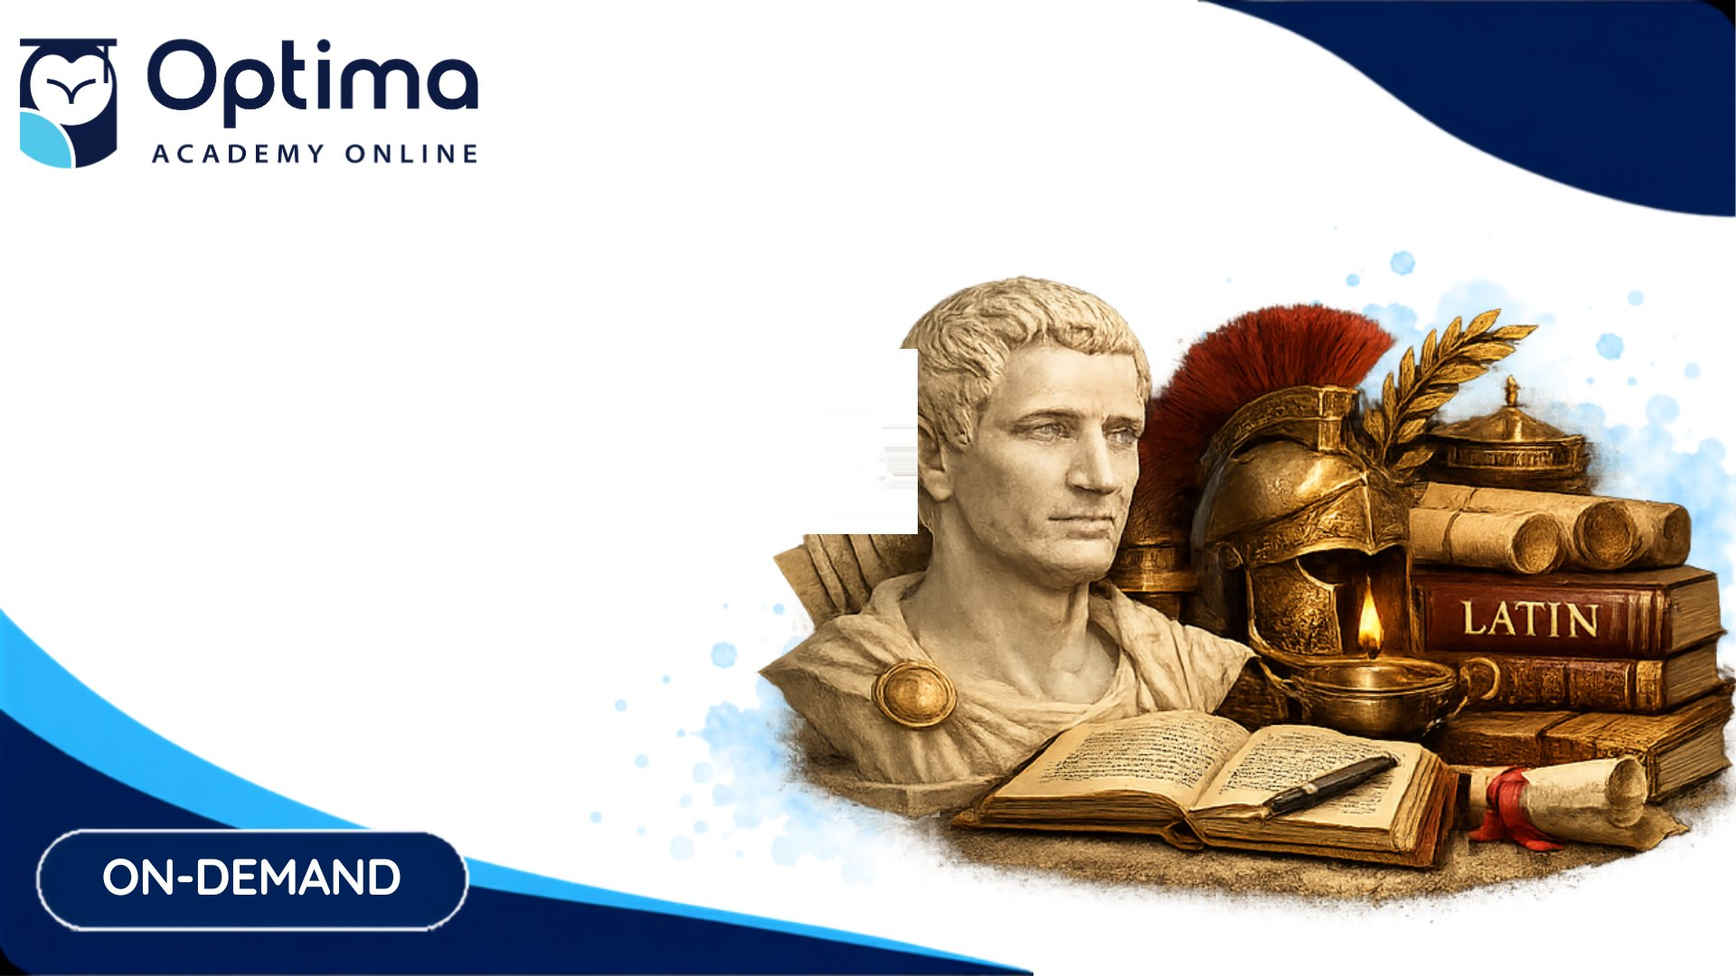
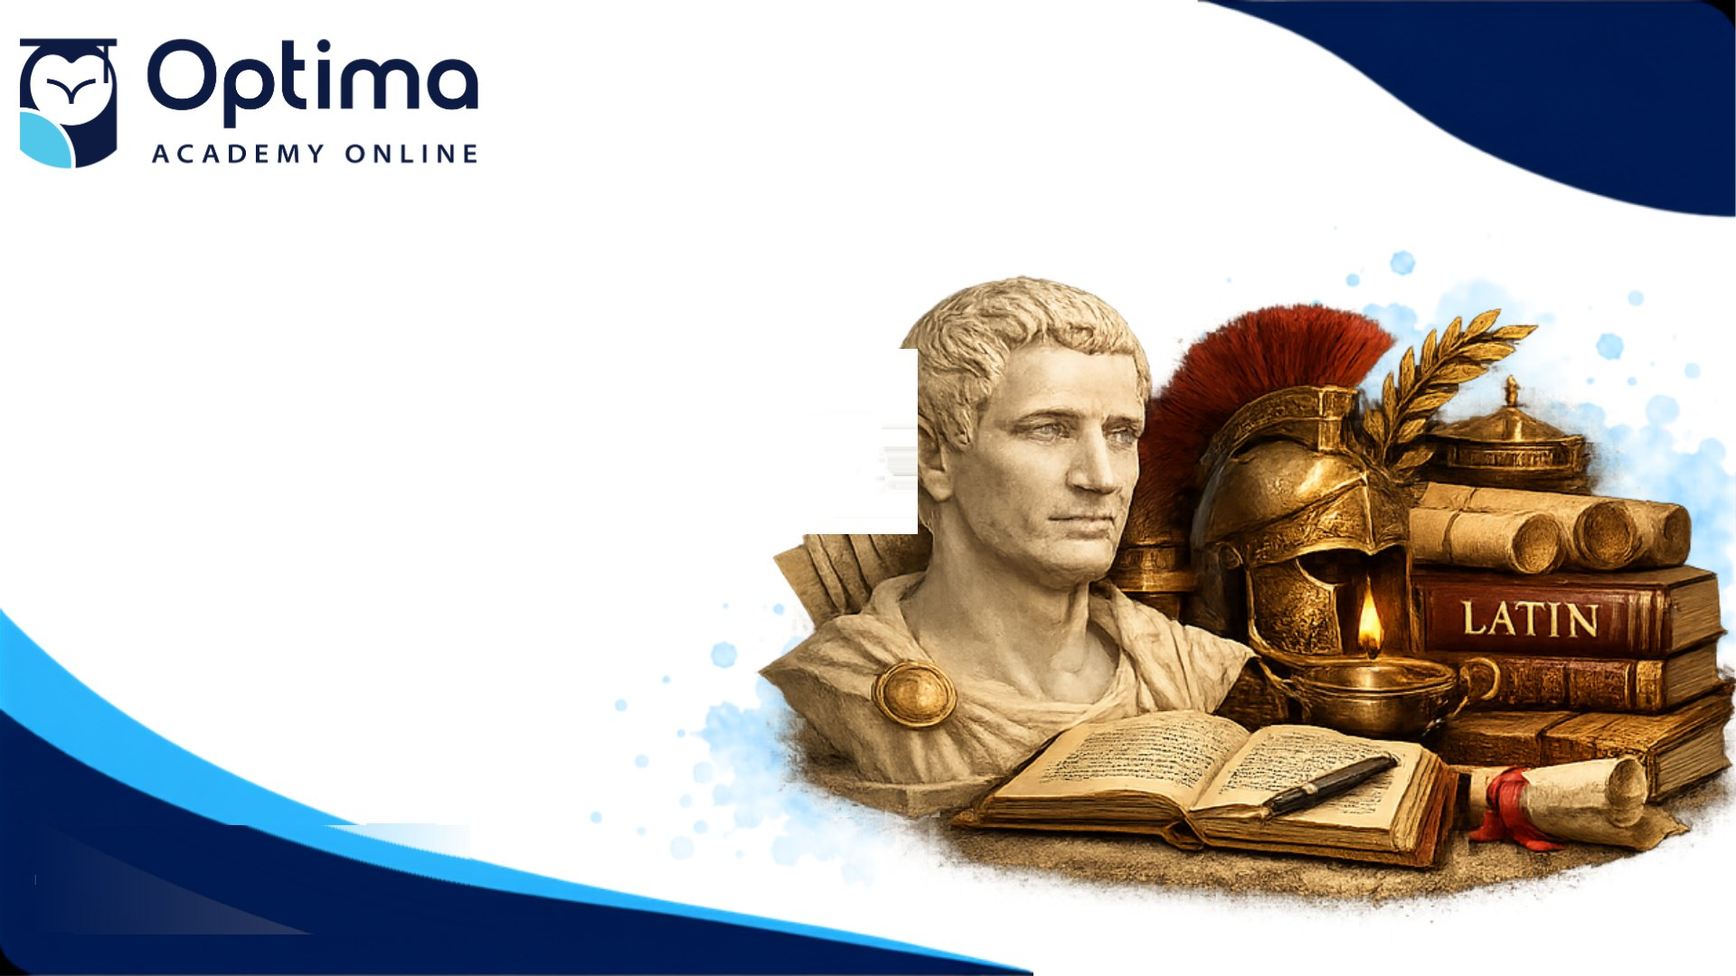
Tiles tab: style per tile, independent scrolling panes, pill-free backgrounds with a Live / On-Demand / none toggle
- Tile style is now one of the batch details: shared (swatch grid, both bands
  grouped) or per tile (a select in the per-tile table), so a teacher with one art,
  one science and two history sections makes one batch of four.
- Form pane and preview pane are sticky and scroll on their own, so the previews
  stay in view while details are edited.
- Backgrounds no longer carry the LIVE / ON-DEMAND pill. tile_backgrounds.py finds the
  pill's white ring, masks it (plus a flat navy backing block where a tile has one),
  fits the wave boundary on either side with a quadratic and fills the hole by
  shearing the neighbouring columns along it. The pill is drawn only for Live or
  On-Demand; "None" leaves the wave clean and drops the mode from the filename.
- Overlapping draws (count changed while backgrounds loaded) no longer paint stale
  results.
- Self-test: mixed styles across the batch, pill present on a Live tile and absent
  on a None tile.

Changed region(s): [[0.0312, 0.825, 0.2812, 0.9778], [0.0, 0.8861, 0.0312, 0.9167]]

diff --git a/index.html b/index.html
@@ -104,8 +104,13 @@
   .tab { border:0; border-radius:8px 8px 0 0; background:rgba(255,255,255,0.08); color:#fff; font-size:15px; padding:10px 22px; }
   .tab[aria-pressed="true"] { background:var(--bg); color:var(--navy); font-weight:600; }
   .wrap[hidden] { display:none; }   /* the grid display would otherwise beat [hidden] */
-  .tileswrap { grid-template-columns: minmax(340px, 540px) 1fr; }
-  .tileswrap .tilepane { background:#fff; border:1px solid var(--line); border-radius:8px; padding:16px; align-self:start; }
+  .tileswrap { grid-template-columns: minmax(340px, 540px) 1fr; align-items:start; }
+  /* Each pane scrolls on its own, so the previews stay in view while the form is edited. */
+  .tileswrap .col { position:sticky; top:12px; max-height:calc(100vh - 24px); overflow-y:auto; padding-right:4px; }
+  .tileswrap .tilepane { background:#fff; border:1px solid var(--line); border-radius:8px; padding:16px; position:sticky; top:12px; max-height:calc(100vh - 24px); overflow-y:auto; }
+  @media (max-width: 1000px) { .tileswrap .col, .tileswrap .tilepane { position:static; max-height:none; overflow:visible; } }
+  .styles .grp { grid-column:1 / -1; font-size:12px; color:var(--mute); font-weight:600; letter-spacing:.5px; margin-top:6px; }
+  .styles .stylebtn span { font-size:11.5px; }
   .tilegrid { display:grid; grid-template-columns:repeat(auto-fill, minmax(340px, 1fr)); gap:14px; }
   .tilecard canvas { display:block; width:100%; height:auto; border:1px solid var(--line); border-radius:8px; background:#fff; }
   .tilecard .cap { display:flex; justify-content:space-between; align-items:center; gap:8px; font-size:13px; color:var(--mute); margin-top:6px; }
@@ -237,17 +242,14 @@
     <div class="step">
       <h2><span class="n">1</span> Set up your batch</h2>
       <div class="hint">One batch makes every tile for one course. Five sections of the same course are one batch of five tiles that differ only where you say they differ.</div>
-      <label>Grade band</label>
-      <div class="seg" id="tile-band"><button type="button" data-v="Middle" aria-pressed="false">Middle (6–8)</button><button type="button" data-v="Upper" aria-pressed="true">Upper (9–12)</button></div>
-      <label>Tile style</label>
-      <div class="styles" id="tile-styles"></div>
       <label for="tile-count">How many tiles</label>
       <input type="number" id="tile-count" min="1" max="24" step="1" value="1" style="max-width:120px;">
     </div>
     <div class="step">
       <h2><span class="n">2</span> Fill in the details</h2>
-      <div class="hint">Tick <b>Same for all</b> when a detail is identical on every tile. Untick it (usually Period) to type it per tile below.</div>
+      <div class="hint">Tick <b>Same for all</b> when a detail is identical on every tile. Untick it to set it per tile below. A teacher with one art, one science and two history sections unticks <b>Tile style</b> and <b>Period</b>.</div>
       <div id="tile-fields"></div>
+      <div id="tile-styles-wrap"><label>Tile style, for every tile</label><div class="styles" id="tile-styles"></div></div>
       <div id="tile-per"></div>
     </div>
     <div class="step">
@@ -1444,18 +1446,19 @@
   var TILE_W = 1920, TILE_H = 1080;
   var TILE_INK = "#133255", TILE_NAME = "#506e91", TILE_PILL = "#052558";
   var TILE_FIELDS = [
+    { k: 'style',   label: 'Tile style',          style: true },
     { k: 'title',   label: 'Course title',        ph: 'English 1' },
     { k: 'teacher', label: 'Teacher name',        ph: 'Ms. Thalia Trussell' },
-    { k: 'mode',    label: 'Live or On-Demand',   select: ['Live', 'On-Demand'] },
+    { k: 'mode',    label: 'Live / On-Demand pill', select: ['Live', 'On-Demand', 'None'] },
     { k: 'days',    label: 'Days',                ph: 'Mon & Wed' },
     { k: 'time',    label: 'Time',                ph: '10:00–10:50 AM ET' },
     { k: 'period',  label: 'Period or section',   ph: 'Period 3' }
   ];
   var TILES_STORE = 'optima-course-kit-tiles';
   function blankTiles() {
-    return { band: 'Upper', style: 'english', count: 1,
-      shared: { title: true, teacher: true, mode: true, days: true, time: true, period: false },
-      values: { title: '', teacher: '', mode: 'Live', days: '', time: '', period: '' },
+    return { count: 1,
+      shared: { style: true, title: true, teacher: true, mode: true, days: true, time: true, period: false },
+      values: { style: 'upper/english', title: '', teacher: '', mode: 'Live', days: '', time: '', period: '' },
       per: [{}] };
   }
   var tiles = blankTiles();
@@ -1472,14 +1475,17 @@
     if (!tiles.per) tiles.per = [];
     while (tiles.per.length < tiles.count) tiles.per.push({});
     tiles.per.length = tiles.count;
-    if (!styleFor(tiles.band, tiles.style)) {
-      var first = TILE_STYLES.filter(function (s) { return s.band === tiles.band; })[0];
-      tiles.style = first ? first.key : tiles.style;
-    }
+    if (tiles.shared.style == null) tiles.shared.style = true;
+    // Older saved batches kept band + style apart; fold them into one key.
+    if (tiles.style && !tiles.values.style) tiles.values.style = String(tiles.band || 'Upper').toLowerCase() + '/' + tiles.style;
+    if (!styleFor(tiles.values.style)) tiles.values.style = 'upper/english';
   }
-  function styleFor(band, key) {
-    return TILE_STYLES.filter(function (s) { return s.band === band && s.key === key; })[0] || null;
+  // Styles are keyed "band/subject", e.g. "upper/english" or "middle/math".
+  function styleKey(s) { return s.band.toLowerCase() + '/' + s.key; }
+  function styleFor(key) {
+    return TILE_STYLES.filter(function (s) { return styleKey(s) === key; })[0] || null;
   }
+  function styleLabel(s) { return s.band + ' · ' + s.subject; }
   function tileValue(i, k) {
     if (tiles.shared[k]) return String(tiles.values[k] || '');
     return String((tiles.per[i] || {})[k] || '');
@@ -1487,14 +1493,16 @@
   function tileData(i) {
     var d = {};
     TILE_FIELDS.forEach(function (f) { d[f.k] = tileValue(i, f.k); });
-    if (d.mode !== 'On-Demand') d.mode = 'Live';
+    if (d.mode !== 'On-Demand' && d.mode !== 'None') d.mode = 'Live';
+    if (!styleFor(d.style)) d.style = tiles.values.style;
     return d;
   }
   function tileFilename(d) {
     var parts = [d.title, d.teacher, d.period].map(function (s) {
       return String(s || '').replace(/[^A-Za-z0-9]+/g, '_').replace(/^_+|_+$/g, '');
     }).filter(Boolean);
-    parts.push(d.mode === 'On-Demand' ? 'OD' : 'Live', 'Tile');
+    if (d.mode !== 'None') parts.push(d.mode === 'On-Demand' ? 'OD' : 'Live');
+    parts.push('Tile');
     return parts.join('_') + '.png';
   }
 
@@ -1570,7 +1578,8 @@
         y += f3.px + 6; ctx.fillStyle = TILE_INK; ctx.fillText(f3.lines[0], x, y);
       });
     }
-    // Mode pill, redrawn over the original one
+    // Mode pill (the backgrounds carry none); skipped when the teacher picks None
+    if (d.mode === 'None') return;
     var px0 = 36, py0 = 896, pw = 492, ph = 136, r = ph / 2;
     ctx.beginPath();
     ctx.moveTo(px0 + r, py0); ctx.lineTo(px0 + pw - r, py0); ctx.arc(px0 + pw - r, py0 + r, r, -Math.PI / 2, Math.PI / 2);
@@ -1586,13 +1595,16 @@
   }
   function renderTiles() {
     fixTiles();
-    // band + styles
-    $('tile-band').querySelectorAll('button').forEach(function (b) { b.setAttribute('aria-pressed', b.dataset.v === tiles.band ? 'true' : 'false'); });
-    $('tile-styles').innerHTML = TILE_STYLES.filter(function (s) { return s.band === tiles.band; }).map(function (s) {
-      return '<button type="button" class="stylebtn" data-key="' + escHtml(s.key) + '" aria-pressed="' + (s.key === tiles.style ? 'true' : 'false') + '"><img src="' + escHtml(s.file) + '" alt="" loading="lazy"><span>' + escHtml(s.subject) + '</span></button>';
-    }).join('');
+    // the swatch grid sets the shared style; hidden when style is per tile
+    $('tile-styles-wrap').hidden = !tiles.shared.style;
+    var grid = [], lastBand = null;
+    TILE_STYLES.forEach(function (s) {
+      if (s.band !== lastBand) { grid.push('<div class="grp">' + escHtml(s.band === 'Middle' ? 'Middle (6–8)' : 'Upper (9–12)') + '</div>'); lastBand = s.band; }
+      grid.push('<button type="button" class="stylebtn" data-key="' + escHtml(styleKey(s)) + '" aria-pressed="' + (styleKey(s) === tiles.values.style ? 'true' : 'false') + '"><img src="' + escHtml(s.file) + '" alt="" loading="lazy"><span>' + escHtml(s.subject) + '</span></button>');
+    });
+    $('tile-styles').innerHTML = grid.join('');
     $('tile-styles').querySelectorAll('.stylebtn').forEach(function (b) {
-      b.addEventListener('click', function () { tiles.style = this.dataset.key; saveTiles(); renderTiles(); });
+      b.addEventListener('click', function () { tiles.values.style = this.dataset.key; saveTiles(); renderTiles(); });
     });
     $('tile-count').value = tiles.count;
     // shared fields
@@ -1626,6 +1638,16 @@
   }
   function fieldInput(f, val, cls, idx, disabled) {
     var data = ' class="' + cls + '" data-k="' + f.k + '"' + (idx ? ' data-i="' + idx + '"' : '');
+    if (f.style) {
+      if (cls === 'tf-shared') return '<span class="hint" style="margin:0;">' + escHtml(styleLabel(styleFor(tiles.values.style) || TILE_STYLES[0])) + (disabled ? '' : ' — pick below') + '</span>';
+      var cur = styleFor(val) ? val : tiles.values.style, lastBand = null, opts = [];
+      TILE_STYLES.forEach(function (s) {
+        if (s.band !== lastBand) { if (lastBand) opts.push('</optgroup>'); opts.push('<optgroup label="' + escHtml(s.band) + '">'); lastBand = s.band; }
+        opts.push('<option value="' + escHtml(styleKey(s)) + '"' + (styleKey(s) === cur ? ' selected' : '') + '>' + escHtml(s.subject) + '</option>');
+      });
+      opts.push('</optgroup>');
+      return '<select' + data + '>' + opts.join('') + '</select>';
+    }
     if (f.select) {
       return '<select' + data + (disabled ? ' disabled' : '') + '>' + f.select.map(function (o) {
         return '<option value="' + o + '"' + (String(val || f.select[0]) === o ? ' selected' : '') + '>' + o + '</option>';
@@ -1633,7 +1655,7 @@
     }
     return '<input type="text"' + data + ' value="' + escHtml(val || '') + '" placeholder="' + escHtml(f.ph || '') + '"' + (disabled ? ' disabled' : '') + ' autocomplete="off">';
   }
-  var drawTimer = null;
+  var drawTimer = null, drawSeq = 0;
   function scheduleDraw() { clearTimeout(drawTimer); drawTimer = setTimeout(drawAllTiles, 120); }
   function wireTileFields() {
     document.querySelectorAll('.tf-same').forEach(function (cb) {
@@ -1651,14 +1673,12 @@
       inp.addEventListener('change', function () { tiles.values[this.dataset.k] = this.value; saveTiles(); scheduleDraw(); });
     });
     document.querySelectorAll('.tf-per').forEach(function (inp) {
-      var h = function () { var i = +this.dataset.i; tiles.per[i] = tiles.per[i] || {}; tiles.per[i][this.dataset.k] = this.value; saveTiles(); scheduleDraw(); };
+      var h = function () { var i = +this.dataset.i; tiles.per[i] = tiles.per[i] || {}; tiles.per[i][this.dataset.k] = this.value; saveTiles(); if (this.dataset.k === 'style') drawAllTiles(); else scheduleDraw(); };
       inp.addEventListener('input', h); inp.addEventListener('change', h);
     });
   }
   function drawAllTiles() {
-    var style = styleFor(tiles.band, tiles.style);
     var grid = $('tilegrid');
-    if (!style) { grid.innerHTML = '<div class="hint">Pick a style.</div>'; return Promise.resolve([]); }
     // Keep existing cards when the count is unchanged so typing does not flicker.
     if (grid.children.length !== tiles.count) {
       grid.innerHTML = '';
@@ -1674,11 +1694,16 @@
         });
       });
     }
-    return Promise.all([tileBg(style), tileFonts()]).then(function (r) {
-      var bg = r[0], names = [];
-      for (var i = 0; i < tiles.count; i++) {
-        var d = tileData(i), card = grid.children[i];
-        drawTile(card.querySelector('canvas'), d, bg);
+    var datas = [], bgs = [], seq = ++drawSeq;
+    for (var j = 0; j < tiles.count; j++) { datas.push(tileData(j)); bgs.push(tileBg(styleFor(datas[j].style))); }
+    return Promise.all([Promise.all(bgs), tileFonts()]).then(function (r) {
+      var names = [];
+      // A newer draw started while the backgrounds loaded: let it paint instead.
+      if (seq !== drawSeq) return names;
+      for (var i = 0; i < datas.length && i < grid.children.length; i++) {
+        var d = datas[i], card = grid.children[i];
+        if (!r[0][i]) continue;
+        drawTile(card.querySelector('canvas'), d, r[0][i]);
         card.querySelector('.cap b').textContent = tileFilename(d);
         names.push(tileFilename(d));
       }
@@ -1705,10 +1730,6 @@
   }
   function wireTiles() {
     loadTiles();
-    $('tile-band').addEventListener('click', function (e) {
-      var v = e.target.dataset && e.target.dataset.v; if (!v) return;
-      tiles.band = v; tiles.style = ''; saveTiles(); renderTiles();
-    });
     $('tile-count').addEventListener('change', function () { tiles.count = this.value; saveTiles(); renderTiles(); });
     $('tiles-zip').addEventListener('click', function () {
       $('tiles-status').textContent = 'Building the zip…'; $('tiles-status').className = 'status';
@@ -1917,10 +1938,12 @@
   // and the zip holds one PNG per tile.
   function tilesSelfTest() {
     tiles = blankTiles();
-    tiles.band = 'Upper'; tiles.style = 'english'; tiles.count = 5;
-    tiles.values = { title: 'English 1', teacher: 'Ms. Thalia Trussell', mode: 'Live', days: 'Mon & Wed', time: '10:00–10:50 AM ET', period: '' };
-    tiles.shared.period = false;
-    tiles.per = [1, 2, 3, 4, 5].map(function (n) { return { period: 'Period ' + n }; });
+    tiles.count = 5;
+    tiles.values = { style: 'upper/english', title: 'English 1', teacher: 'Ms. Thalia Trussell', mode: 'Live', days: 'Mon & Wed', time: '10:00–10:50 AM ET', period: '' };
+    tiles.shared.period = false; tiles.shared.style = false; tiles.shared.mode = false;
+    // one art, one science, two history, one English; the last tile carries no pill
+    var mix = ['upper/art', 'upper/science', 'upper/social-studies', 'upper/social-studies', 'upper/english'];
+    tiles.per = [1, 2, 3, 4, 5].map(function (n) { return { period: 'Period ' + n, style: mix[n - 1], mode: n === 5 ? 'None' : 'Live' }; });
     setTab('tiles');
     return renderTiles().then(function (names) {
       var grid = $('tilegrid'), inked = 0;
@@ -1931,11 +1954,19 @@
         if (dark / (img.length / 16) > 0.02) inked++;
       }
       var uniq = {}; names.forEach(function (n) { uniq[n] = true; });
+      // Backgrounds differ: sample the illustration area of tiles 1 and 2.
+      var px = function (i, x, y) { var q = grid.children[i].querySelector('canvas').getContext('2d').getImageData(x, y, 1, 1).data; return [q[0], q[1], q[2]]; };
+      var p1 = px(0, 1500, 600), p2 = px(1, 1500, 600);
+      var stylesDiffer = Math.abs(p1[0] - p2[0]) + Math.abs(p1[1] - p2[1]) + Math.abs(p1[2] - p2[2]) > 30;
+      // Pill: its white ring crosses (37, 964) on tile 1 (Live); tile 5 (None) has no ring there.
+      var lum = function (c) { return 0.299 * c[0] + 0.587 * c[1] + 0.114 * c[2]; };
+      var pillOn = lum(px(0, 37, 964)) > 200, pillOff = lum(px(4, 37, 964)) < 200;
       return tilesZip().then(function (zip) {
         var entries = Object.keys(zip.files).length;
         var poppins = !!(document.fonts && document.fonts.check && document.fonts.check('600 118px Poppins'));
         var res = { count: grid.children.length, inked: inked, poppins: poppins, zipEntries: entries, names: names,
-          ok: grid.children.length === 5 && inked === 5 && Object.keys(uniq).length === 5 && entries === 5 && poppins };
+          stylesDiffer: stylesDiffer, pillOn: pillOn, pillOff: pillOff,
+          ok: grid.children.length === 5 && inked === 5 && Object.keys(uniq).length === 5 && entries === 5 && poppins && stylesDiffer && pillOn && pillOff };
         setTab('kit');
         return res;
       });

diff --git a/_build/tile_backgrounds.py b/_build/tile_backgrounds.py
@@ -92,6 +92,98 @@ def erase_text(img):
     img.paste(region, box)
     return edge
 
+def erase_pill(img):
+    """Remove the LIVE / ON-DEMAND pill. Its white ring is found inside a fixed box,
+    the ring's bounding rectangle (plus a halo) is masked, and OpenCV inpaints the
+    hole from the wave around it."""
+    import numpy as np, cv2
+    x0, y0, x1, y1 = 20, 880, 580, 1045
+    a = np.array(img)
+    reg = a[y0:y1, x0:x1].astype(float)
+    lum = 0.299*reg[:, :, 0] + 0.587*reg[:, :, 1] + 0.114*reg[:, :, 2]
+    # the ring = white pixels within 6px of the pill's navy fill (keeps white ground out)
+    navy = (lum < 60).astype(np.uint8)
+    near = cv2.dilate(navy, np.ones((13, 13), np.uint8)) > 0
+    ring = ((lum > 228) & near).astype(np.uint8)
+    # keep the white pieces that could be part of a pill (ring segments, label letters);
+    # drop anything pill-sized or bigger or touching the zone edge (white ground)
+    n, lab, stats, _ = cv2.connectedComponentsWithStats(ring, connectivity=8)
+    keep = np.zeros(ring.shape, bool)
+    for i in range(1, n):
+        L, T, W, Hh, A = stats[i]
+        if W > 560 or Hh > 175 or A > 60000: continue
+        if L == 0 or T == 0 or L + W >= ring.shape[1] or T + Hh >= ring.shape[0]: continue
+        keep |= (lab == i)
+    ring = keep
+    ys, xs = np.where(ring)
+    if len(xs) < 200:
+        rx0, ry0, rx1, ry1 = 30, 900, 530, 1030
+    else:
+        rx0, rx1 = x0 + xs.min(), x0 + xs.max()
+        ry0, ry1 = y0 + ys.min(), y0 + ys.max()
+    # hole = the ring plus everything dark inside it (fill + label), with a 5px halo;
+    # the bounding rectangle's corners were pulling the navy band into the fill
+    inner = np.zeros(lum.shape, bool)
+    iy0, iy1 = ry0 - y0 + 2, ry1 - y0 - 2
+    ix0, ix1 = rx0 - x0 + 2, rx1 - x0 - 2
+    inner[iy0:iy1, ix0:ix1] = True
+    hole = ring | ((lum < 60) & inner) | ((lum > 228) & inner)
+    hole = cv2.dilate(hole.astype(np.uint8), np.ones((11, 11), np.uint8))
+    full = np.zeros(a.shape[:2], bool)
+    full[y0:y1, x0:x1] = hole > 0
+    # Some tiles back the pill with a flat navy rectangle (straight vertical edge to
+    # its right). Take that block out too, or it is left orphaned on the wave.
+    A = a.astype(float)
+    L = 0.299*A[:, :, 0] + 0.587*A[:, :, 1] + 0.114*A[:, :, 2]
+    for xe in range(rx1 + 10, min(a.shape[1] - 3, rx1 + 220)):
+        edge = (L[y0:y1, xe] < 60) & (L[y0:y1, xe + 2] > 90)
+        if edge.sum() > 60:    # a long straight vertical edge = the block's right side
+            top = int(np.where(edge)[0].min()) + y0 - 4
+            full[max(0, top):a.shape[0], 0:xe + 3] |= True
+            break
+    a = shear_fill(a, full)
+    img.paste(Image.fromarray(a))
+    return (rx0, ry0, rx1, ry1)
+
+def shear_fill(a, hole):
+    """Fill a hole in the wave: find where the deep-navy band starts in the columns
+    just left and right of the hole, interpolate that boundary across the hole, and
+    copy each column from the side columns shifted so the boundary lines up. Bands
+    stay flat and their edge stays sharp."""
+    import numpy as np
+    a = a.copy().astype(float)
+    lum = 0.299*a[:, :, 0] + 0.587*a[:, :, 1] + 0.114*a[:, :, 2]
+    ys, xs = np.where(hole)
+    hy0, hy1, hx0, hx1 = ys.min(), ys.max(), xs.min(), xs.max()
+    H = a.shape[0]
+    def navy_start(x):
+        col = lum[max(0, hy0 - 120):H, x]
+        run = 0
+        for i, v in enumerate(col):
+            run = run + 1 if v < 70 else 0
+            if run >= 6: return max(0, hy0 - 120) + i - 5
+        return None
+    xL, xR = max(0, hx0 - 12), min(a.shape[1] - 1, hx1 + 12)
+    sx, sy = [], []
+    for x in list(range(max(0, hx0 - 70), hx0 - 6)) + list(range(hx1 + 7, min(a.shape[1], hx1 + 71))):
+        e = navy_start(x)
+        if e is not None: sx.append(x); sy.append(e)
+    if len(sx) >= 6:
+        poly = np.poly1d(np.polyfit(sx, sy, 2))
+    else:
+        poly = np.poly1d([0.0])
+    eL, eR = poly(xL), poly(xR)
+    for x in range(hx0, hx1 + 1):
+        rows = np.where(hole[:, x])[0]
+        if not len(rows): continue
+        t = (x - xL) / float(xR - xL)
+        b = poly(x)
+        for y in rows:
+            yl = int(round(y - (b - eL))); yr = int(round(y - (b - eR)))
+            yl = min(H - 1, max(0, yl)); yr = min(H - 1, max(0, yr))
+            a[y, x] = (1 - t) * a[yl, xL] + t * a[yr, xR]
+    return a.clip(0, 255).astype('uint8')
+
 manifest = []
 sheet_tiles = []
 for band in ('Middle', 'Upper'):
@@ -104,6 +196,7 @@ for band in ('Middle', 'Upper'):
         pick = files[0]
         img = Image.open(os.path.join(root, subject, pick)).convert('RGB')
         edge = erase_text(img)
+        erase_pill(img)
         key = re.sub(r'[^a-z0-9]+', '-', subject.lower()).strip('-')
         name = '%s-%s.jpg' % (band.lower(), key)
         img.save(os.path.join(OUT, name), 'JPEG', quality=86, optimize=True)

diff --git a/README.md b/README.md
@@ -100,17 +100,18 @@ styles only. Source of the design: the theme-and-motion review artifact (2026-09
 ## Course tiles tab
 
 The second tab makes Canvas dashboard tiles (1920 x 1080 PNG). A batch is one course:
-pick the grade band and a subject style, say how many tiles, then fill in course title,
-teacher, Live or On-Demand, days, time and period. Each detail is either shared by the
-whole batch or typed per tile, so five sections that differ only by period are one
-batch of five. Every tile previews on the page and downloads alone or as one zip.
+say how many tiles, then fill in tile style, course title, teacher, the Live / On-Demand
+pill (or none), days, time and period. Each detail is either shared by the whole batch or
+set per tile, so five sections that differ only by period are one batch of five, and one
+art, one science and two history sections are one batch of four with the style per tile.
+The form pane and the preview pane scroll independently. Every tile previews on the page and downloads alone or as one zip.
 
 Backgrounds live in `tiles/` (one per band and subject, `tiles/manifest.json` names
 the source tile each came from). They are the 2026-27 tile set with the course title
 and teacher name erased; `_build/tile_backgrounds.py` regenerates them from the
-Upper/Middle zips. The text is drawn in the browser in Poppins, larger than the
-originals because dashboard cards shrink the image, and the Live / On-Demand pill is
-redrawn over the original.
+Upper/Middle zips. The pill is erased too (`_build/tile_backgrounds.py` inpaints it by extending the
+wave boundary). The text is drawn in the browser in Poppins, larger than the originals
+because dashboard cards shrink the image, and the pill is drawn only when asked for.
 
 ## Verifying the widget end to end
 
